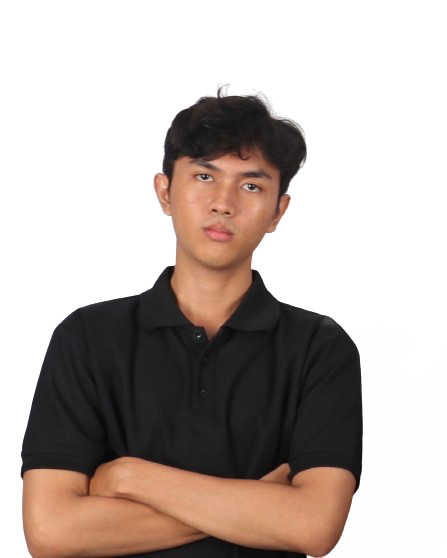
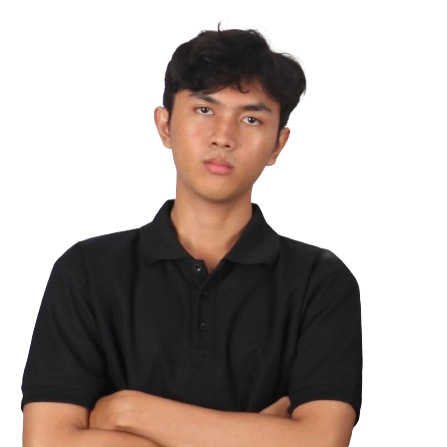
by ziva

diff --git a/template/about.php b/template/about.php
@@ -102,15 +102,15 @@
                     <h3>Fauzan Rofif Ardiyanto</h3>
                 </div>
                 <div class="col-md-4 team-item">
-                    <img style="width  : 120px; height:auto" src="../assets/img/candra.png" alt="Team Member 4">
+                    <img style="width  : 250px; height:auto" src="../assets/img/candra.png" alt="Team Member 4">
                     <h3>Dwi Candra Pratama</h3>
                 </div>
                 <div class="col-md-4 team-item">
-                    <img style="width  : 200px; height:auto" src="../assets/img/ricky.png" alt="Team Member 5">
+                    <img style="width  : 190px; height:auto" src="../assets/img/ricky.png" alt="Team Member 5">
                     <h3>Ricky Revenando</h3>
                 </div>
                 <div class="col-md-4 team-item">
-                    <img style="width  : 250px; height:auto" src="../assets/img/tmo.png" alt="Team Member 6">
+                    <img style="width  : 250px; height:auto" src="../assets/img/ahmad.png" alt="Team Member 6">
                     <h3>Nurul Ahmad</h3>
                 </div>
             </div>
